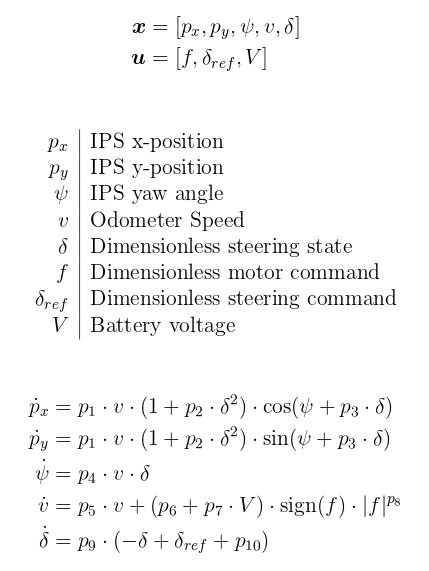
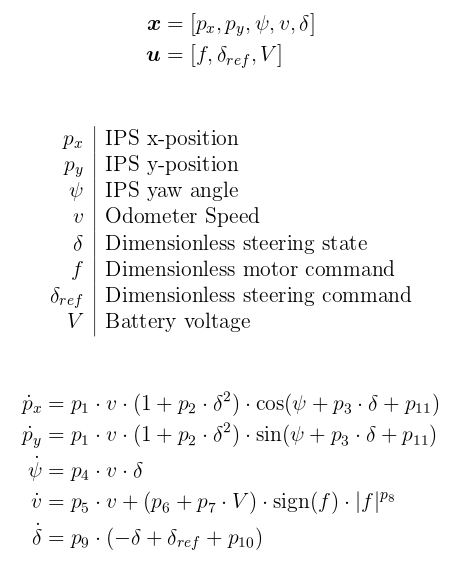
yaw offset parameter added

diff --git a/matlab_scripts/vehicle_dynamics_identification/vehicle_dynamics.tex b/matlab_scripts/vehicle_dynamics_identification/vehicle_dynamics.tex
@@ -20,8 +20,8 @@
 
 
 \begin{align}
-\dot{p}_x &= p_1 \cdot v \cdot (1+p_2 \cdot \delta^2) \cdot \cos(\psi + p_3 \cdot \delta) \\
-\dot{p}_y &= p_1 \cdot v \cdot (1+p_2 \cdot \delta^2) \cdot \sin(\psi + p_3 \cdot \delta) \\
+\dot{p}_x &= p_1 \cdot v \cdot (1+p_2 \cdot \delta^2) \cdot \cos(\psi + p_3 \cdot \delta + p_{11}) \\
+\dot{p}_y &= p_1 \cdot v \cdot (1+p_2 \cdot \delta^2) \cdot \sin(\psi + p_3 \cdot \delta + p_{11}) \\
 \dot{\psi} &= p_4 \cdot v \cdot \delta \\
 \dot{v} &= p_5 \cdot v + (p_6 + p_7 \cdot V) \cdot \text{sign}(f) \cdot |f|^{p_8} \\
 \dot{\delta} &= p_9 \cdot (-\delta + \delta_{ref} + p_{10})

diff --git a/matlab_scripts/vehicle_dynamics_identification/vehicle_dynamics.m b/matlab_scripts/vehicle_dynamics_identification/vehicle_dynamics.m
@@ -12,8 +12,8 @@ function dx = vehicle_dynamics(x,u,p)
     
     dx = 0*x;
     
-    dx(:,1) = p(1) .* v .* (1 + p(2) .* delta.^2) .* cos(yaw + p(3) .* delta);
-    dx(:,2) = p(1) .* v .* (1 + p(2) .* delta.^2) .* sin(yaw + p(3) .* delta);
+    dx(:,1) = p(1) .* v .* (1 + p(2) .* delta.^2) .* cos(yaw + p(3) .* delta + p(11));
+    dx(:,2) = p(1) .* v .* (1 + p(2) .* delta.^2) .* sin(yaw + p(3) .* delta + p(11));
     dx(:,3) = p(4) .* v .* delta;
     dx(:,4) = p(5) .* v + (p(6) + p(7) .* V) .* sign(f) .* (abs(f).^(p(8)));
     dx(:,5) = p(9) .* (-delta + delta_ref + p(10));

diff --git a/matlab_scripts/vehicle_dynamics_identification/manual_parameter_fit.m b/matlab_scripts/vehicle_dynamics_identification/manual_parameter_fit.m
@@ -54,7 +54,7 @@ function manual_parameter_fit
         state.speed(idx_state(1))  ...
         .3 ...
     ];
-    params = zeros(1,10);
+    params = zeros(1,11);
     T_v = 0.4;
     params(1) = 0.94;
     params(4) = 1/0.34;
